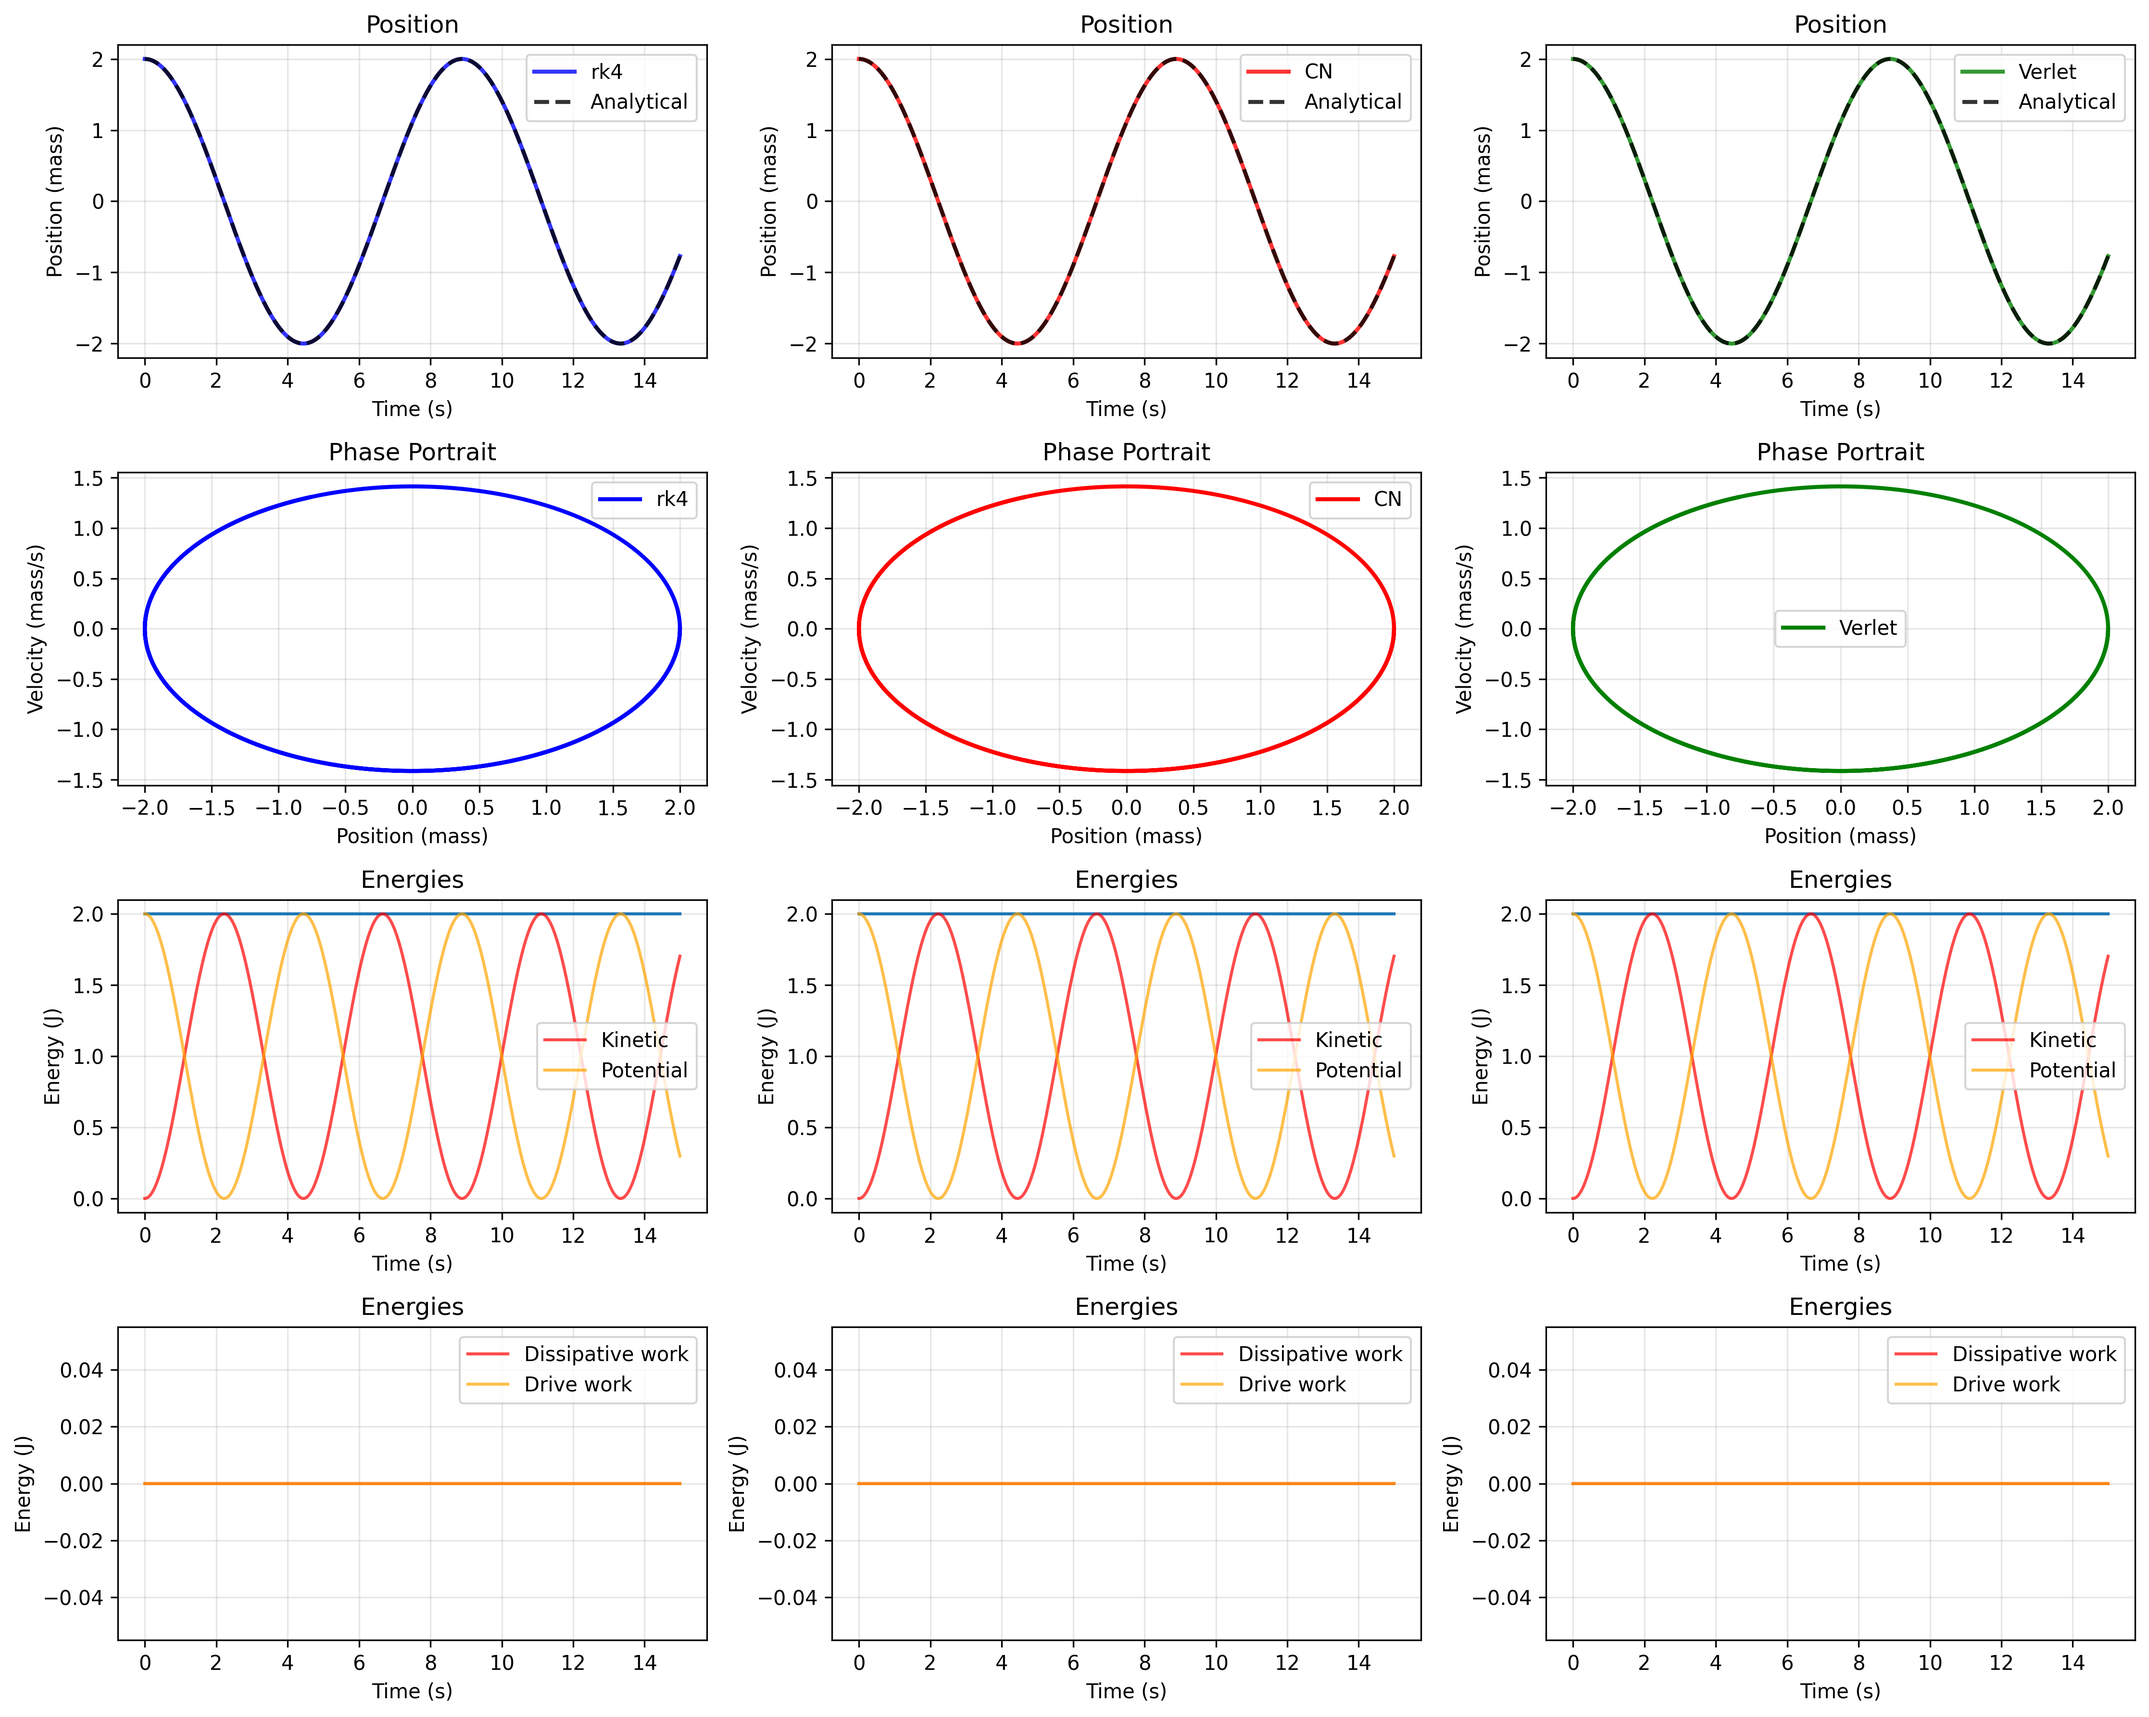
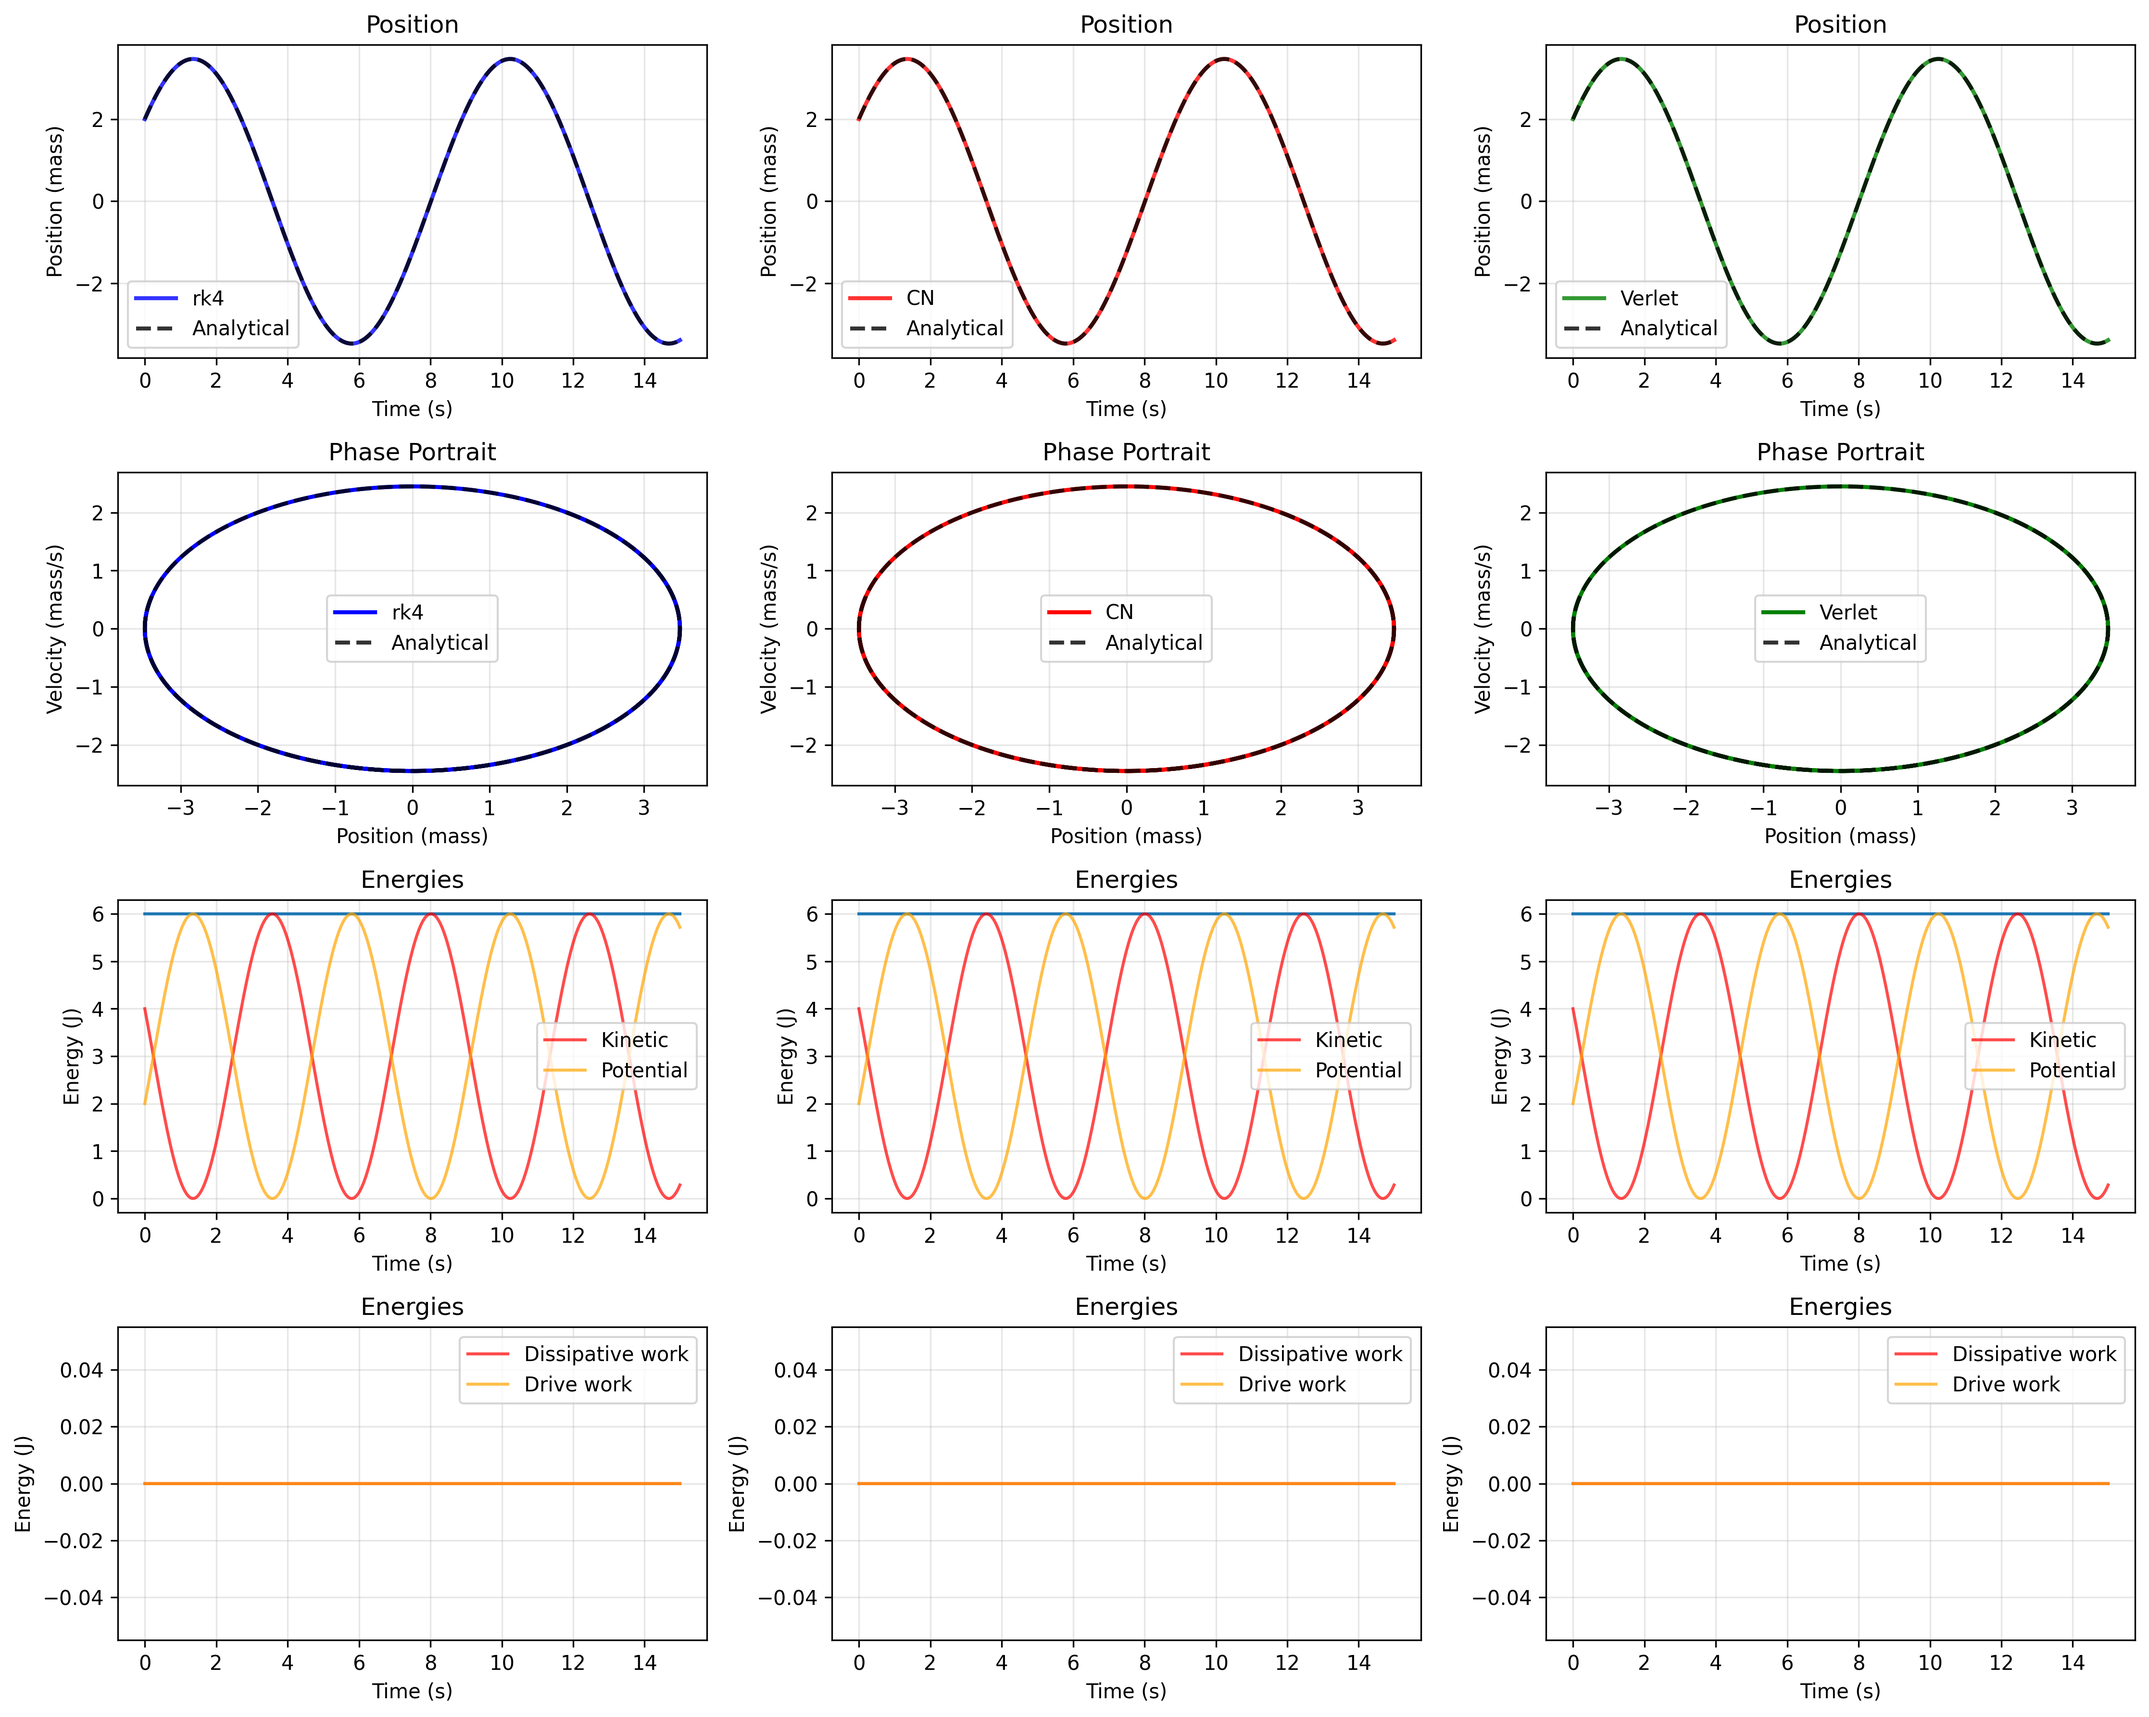
Correccion de condiciones iniciales. Segunda grafica errores. Tomorrow, third grahics and look times of linear graphics

diff --git a/oscillatory_motion/Driven_oscillation/linear_erros.py b/oscillatory_motion/Driven_oscillation/linear_erros.py
@@ -9,7 +9,7 @@ from Driven_oscillation import DrivenOscillation
 @dataclass
 class DrivenOscilation_param():
     """Parameters for linear driven oscillator"""
-    mass: float = 2.0
+    mass: float = 1.0
     gamma: float = 1.0
     k: float = 1.0
 
@@ -21,7 +21,7 @@ class DrivenOscilation_param():
     dq0: float = 0.0
 
     dt: float = 0.01
-    t_max: float = 25.0
+    t_max: float = 50.0
     
     system: str = 'linear'
 
@@ -32,11 +32,21 @@ def analitical_numerical(params, numerical_method):
     history_num = model.history
     history_ana = model.analytical
     
-    solution = {name: history_num[name]['q'] for name in numerical_method}
+    solution = {
+        name: {
+            'q' :history_num[name]['q'], 
+            'v': history_num[name]['v']
+            } 
+        for name in numerical_method
+    }
 
     # Add analytical and time
-    solution['analitical'] = history_ana['x']
+    solution['Analytical'] = {
+        'x': history_ana['x'],
+        'v': history_ana['v']
+    }
     solution['t'] = history_num['rk4']['t']
+
 
     return solution
 
@@ -45,14 +55,20 @@ def error_ana_num(params, numerical_method):
     solution = analitical_numerical(params, numerical_method)
 
     error = {
-        name: [] for name in numerical_method
+        name: {"x": [], "v": []} for name in numerical_method
             }
     
     for _, num in enumerate(numerical_method):
 
-        error[num] = np.abs( np.array(solution['analitical']) - np.array(solution[f'{num}']))
+        error[num]['x'] = np.abs(np.array(solution['Analytical']["x"]) - np.array(solution[f'{num}']['q']))
+        error[num]['v'] = np.abs(np.array(solution['Analytical']["v"]) - np.array(solution[f'{num}']["v"]))
     
     return error, solution['t']
+
+
+###
+# -------------------- Plots ----------------
+###
 
 def plot_error_ana_num(params, numerical_method):
 
@@ -64,11 +80,11 @@ def plot_error_ana_num(params, numerical_method):
     for ax_idx, forcing in enumerate(['cos', 'sin']):
         params.F_external = forcing
         error, t = error_ana_num(params, numerical_method)
-
+        print(f"Computing {forcing}")
         ax = axes[ax_idx]
 
         for j, num in enumerate(numerical_method):
-            ax.plot(t, error[num], color=colors[j], label=num)
+            ax.plot(t, error[num]['x'], color=colors[j], label=num)
 
         ax.set_title(f"External forcing: {forcing}")
         ax.set_xlabel("Time")
@@ -81,11 +97,33 @@ def plot_error_ana_num(params, numerical_method):
         fontsize=14
     )
 
+def phase_portrait_error(params, numerical_method):
+
+    cmap = plt.colormaps["viridis"]
+    colors = [cmap(i / len(numerical_method)) for i in range(len(numerical_method))]
+
+    fig, axes = plt.subplots(2, 3, figsize = (15, 7), tight_layout = True)
+
+    for ax_idx, forcing in enumerate(['cos', 'sin']):
+
+        params.F_external = forcing
+
+        error, t = error_ana_num(params, numerical_method)
+
+        for j, num in enumerate(numerical_method):
+            axes[ax_idx, j].plot(error[num]["x"], error[num]["v"], color = colors[j], label = num)
+            axes[ax_idx, j].set_xlabel(r"$|v_{\mathrm{exact}} - v_{\mathrm{num}}|$")
+            axes[ax_idx, j].set_ylabel(r"$|y_{\mathrm{exact}} - y_{\mathrm{num}}|$")
+            axes[ax_idx, j].legend()
+
+    fig.suptitle(
+        rf"Phase portrait error for $\gamma={params.gamma}$, $\omega={params.omega}$, $k={params.k}$", fontsize=14)
+    
 if __name__ == "__main__":
 
     params = DrivenOscilation_param()
     numerical_method = ['rk4', 'CN', 'Verlet']
 
-    plot_error_ana_num(params, numerical_method) #In this first one graphics wwe see how the verlet method doesn't fix correctly with analitcal method due to the fact that velet is for conservative system.On the other hand, the different errors between the two linear cos and sin system is so large so I want to see what happens.
-    
+    #plot_error_ana_num(params, numerical_method) #In this first one graphics wwe see how the verlet method doesn't fix correctly with analitcal method due to the fact that velet is for conservative system.On the other hand, the different errors between the two linear cos and sin system is so large so I want to see what happens.
+    phase_portrait_error(params, numerical_method)
     plt.show()

diff --git a/oscillatory_motion/Driven_oscillation/Driven_oscillation.py b/oscillatory_motion/Driven_oscillation/Driven_oscillation.py
@@ -124,7 +124,7 @@ def linear_system(t, y, p):
         force = np.sin(p["omega"] * t)
 
     dxdt = v
-    dvdt = -2 * p["beta"] * v - p["omega0"] * x + p["alpha"] * force
+    dvdt = -2 * p["beta"] * v - p["omega0"]**2 * x + p["alpha"] * force
 
     return np.array([dxdt, dvdt])
 
@@ -149,33 +149,39 @@ def nonlinear_system(t, y, p):
 
 def analytics(x0, v0, beta, omega0, t, omega, alpha, F_type='sin'):
     
-    omega_d = np.sqrt(max(omega0 - beta**2, 0))
+    omega_d = np.sqrt(max(omega0**2 - beta**2, 0))
     
     # Steady-state 
-    denom = (omega0 - omega**2)**2 + (2*beta*omega)**2
+    denom = (omega0**2 - omega**2)**2 + (2*beta*omega)**2
     A_steady = alpha / np.sqrt(denom)
-    delta = np.arctan2(2*beta*omega, omega0 - omega**2)
+    delta = np.arctan2(2*beta*omega, omega0**2 - omega**2)
     
     # Forced response
     if F_type == 'sin':
         x_forced = A_steady * np.sin(omega*t - delta)
+        v_forced = A_steady * omega * np.cos(omega*t - delta)
+
         x_f0 = A_steady * np.sin(-delta)
         v_f0 = A_steady * omega * np.cos(-delta)
     else:  # 'cos'
         x_forced = A_steady * np.cos(omega*t - delta)
+        v_forced = - A_steady * omega * np.sin(omega * t - delta)
+
         x_f0 = A_steady * np.cos(-delta)
         v_f0 = -A_steady * omega * np.sin(-delta)
     
     # Transient (with x0, v0)
     C1 = x0 - x_f0
-    if omega_d > 0:
-        C2 = (v0 -v_f0 + beta*x0) / omega_d 
-    else:
-        C2 = 0.0
-        
-    x_transient = np.exp(-beta*t) * (C1*np.cos(omega_d*t) + C2*np.sin(omega_d*t))
+   
+    C2 = (v0 -v_f0 + beta*C1) / omega_d if omega_d > 0 else 0.0
     
-    return x_transient + x_forced
+    x_transient = np.exp(-beta*t) * (C1*np.cos(omega_d*t) + C2*np.sin(omega_d*t))
+    v_transient = np.exp(-beta * t) * (-beta*(C1*np.cos(omega_d*t) + C2*np.sin(omega_d*t)) + (-C1*omega_d*np.sin(omega_d*t) + C2*omega_d*np.cos(omega_d*t)))
+
+    x = x_transient + x_forced
+    v = v_transient + v_forced
+
+    return x, v
 ##
 # ---------- Main code ---------------
 ##
@@ -258,10 +264,9 @@ class Linear:
 
         # Derived parameters
         self.beta = gamma / (2 * m)
-        self.omega_sq = k / m 
+        self.omega_sq = np.sqrt(k / m) 
         self.alpha = F0 / m
         self.F0 = F0
-
 
         # Phase (steady-state)
         self.delta = np.arctan2((2 * self.beta * self.omega), (self.omega_sq - self.omega**2))
@@ -277,7 +282,7 @@ class Linear:
     def run(self):
 
         n_steps = int(np.ceil(self.t_max / self.dt))
-
+        
         # Parameters for system
         params = {
             "beta": self.beta,
@@ -320,6 +325,7 @@ class Linear:
 
                 # Dissipative power: γ*v²
                 P_diss = self.gamma * dq**2
+
                 # External force: F(t)*v(t)
 
                 if self.F_external == 'sin':
@@ -350,14 +356,18 @@ class Linear:
                     y = method(linear_system, t, y, self.dt, params)
 
         # --- Analytical solution ---
-        self.analytical = {"x": [], "t": []}
-
+        self.analytical = {"x": [], "v": [], "t": []}
+        
         for i in range(n_steps):
+            if i == 0:
+                print(self.v0) 
+        
             t = i * self.dt
             
-            x = analytics(x0=self.y0, v0=self.v0, beta=self.beta, omega0=self.omega_sq, t=t, omega=self.omega, alpha=self.alpha, F_type=self.F_external)
-
+            x, v = analytics(x0=self.y0, v0=self.v0, beta=self.beta, omega0=self.omega_sq, t=t, omega=self.omega, alpha=self.alpha, F_type=self.F_external)
+            
             self.analytical["x"].append(x)
+            self.analytical["v"].append(v)
             self.analytical["t"].append(t)
         
         return self.history, self.analytical

diff --git a/oscillatory_motion/Driven_oscillation/linear_graphics.py b/oscillatory_motion/Driven_oscillation/linear_graphics.py
@@ -18,7 +18,7 @@ class DrivenOscillationParams:
     F_external: str = 'cos'
 
     q0: float = 2.0
-    dq0: float = 0.0
+    dq0: float = 2.0
 
     dt: float = 0.01
     t_max: float = 25.0
@@ -56,6 +56,7 @@ def plot_regime_summary(history, analytical, F0_val, gamma_val):
 
         # Row 2: Phase portrait
         axes[1, i].plot(history[method]['q'], history[method]['v'], color=colors[method], linewidth=2, label=method)
+        axes[1, i].plot(analytical['x'], analytical['v'], 'k--', linewidth = 2, label = 'Analytical', alpha = 0.8)
         axes[1, i].set_title('Phase Portrait')
         axes[1, i].set_xlabel('Position (mass)')
         axes[1, i].set_ylabel('Velocity (mass/s)')
@@ -406,21 +407,21 @@ if __name__ == "__main__":
     omega0 = np.sqrt(params.k/params.mass)
     
     F0_list = [0, 0, 2.0]
-    gamma_list = [0, 1, 3]
+    gamma_list = [0, 3, 2]
+#Remenber: w_d = np.sqrt(k/m - gamma/(2m))
+    for idx, (F0_val, gamma_val) in enumerate(zip(F0_list, gamma_list)):
 
-    #for idx, (F0_val, gamma_val) in enumerate(zip(F0_list, gamma_list)):
-
-    #    print(f"Running F0={F0_val}, gamma={gamma_val}")
+        print(f"Running F0={F0_val}, gamma={gamma_val}")
     
-    #    osc = DrivenOscillation( q0=params.q0, dq0=params.dq0, m=params.mass, gamma=gamma_val, F0=F0_val, omega=params.omega, t_max=params.t_max, dt=params.dt, system='linear', k=params.k, F_external=params.F_external)
+        osc = DrivenOscillation( q0=params.q0, dq0=params.dq0, m=params.mass, gamma=gamma_val, F0=F0_val, omega=params.omega, t_max=params.t_max, dt=params.dt, system='linear', k=params.k, F_external=params.F_external)
     
-    #    model = osc.run() 
+        model = osc.run() 
     
-    #    plot_regime_summary(model.history, model.analytical, F0_val, gamma_val) 
+        plot_regime_summary(model.history, model.analytical, F0_val, gamma_val) 
     
     # Resonance curve
-    #beta_vs_power(params, omega0)
-    #beta_vs_amplitude(params, omega0)
+    beta_vs_power(params, omega0)
+    beta_vs_amplitude(params, omega0)
 
     #Quality factor
 
@@ -428,6 +429,7 @@ if __name__ == "__main__":
 
     #Energies
     for i in numerical_method:
-    #energy_surface_omega(params, omega0)
+        energy_surface_omega(params, omega0, i)
         energy_surface_F0(params, omega0, i)
-    
+
+    plt.show()
